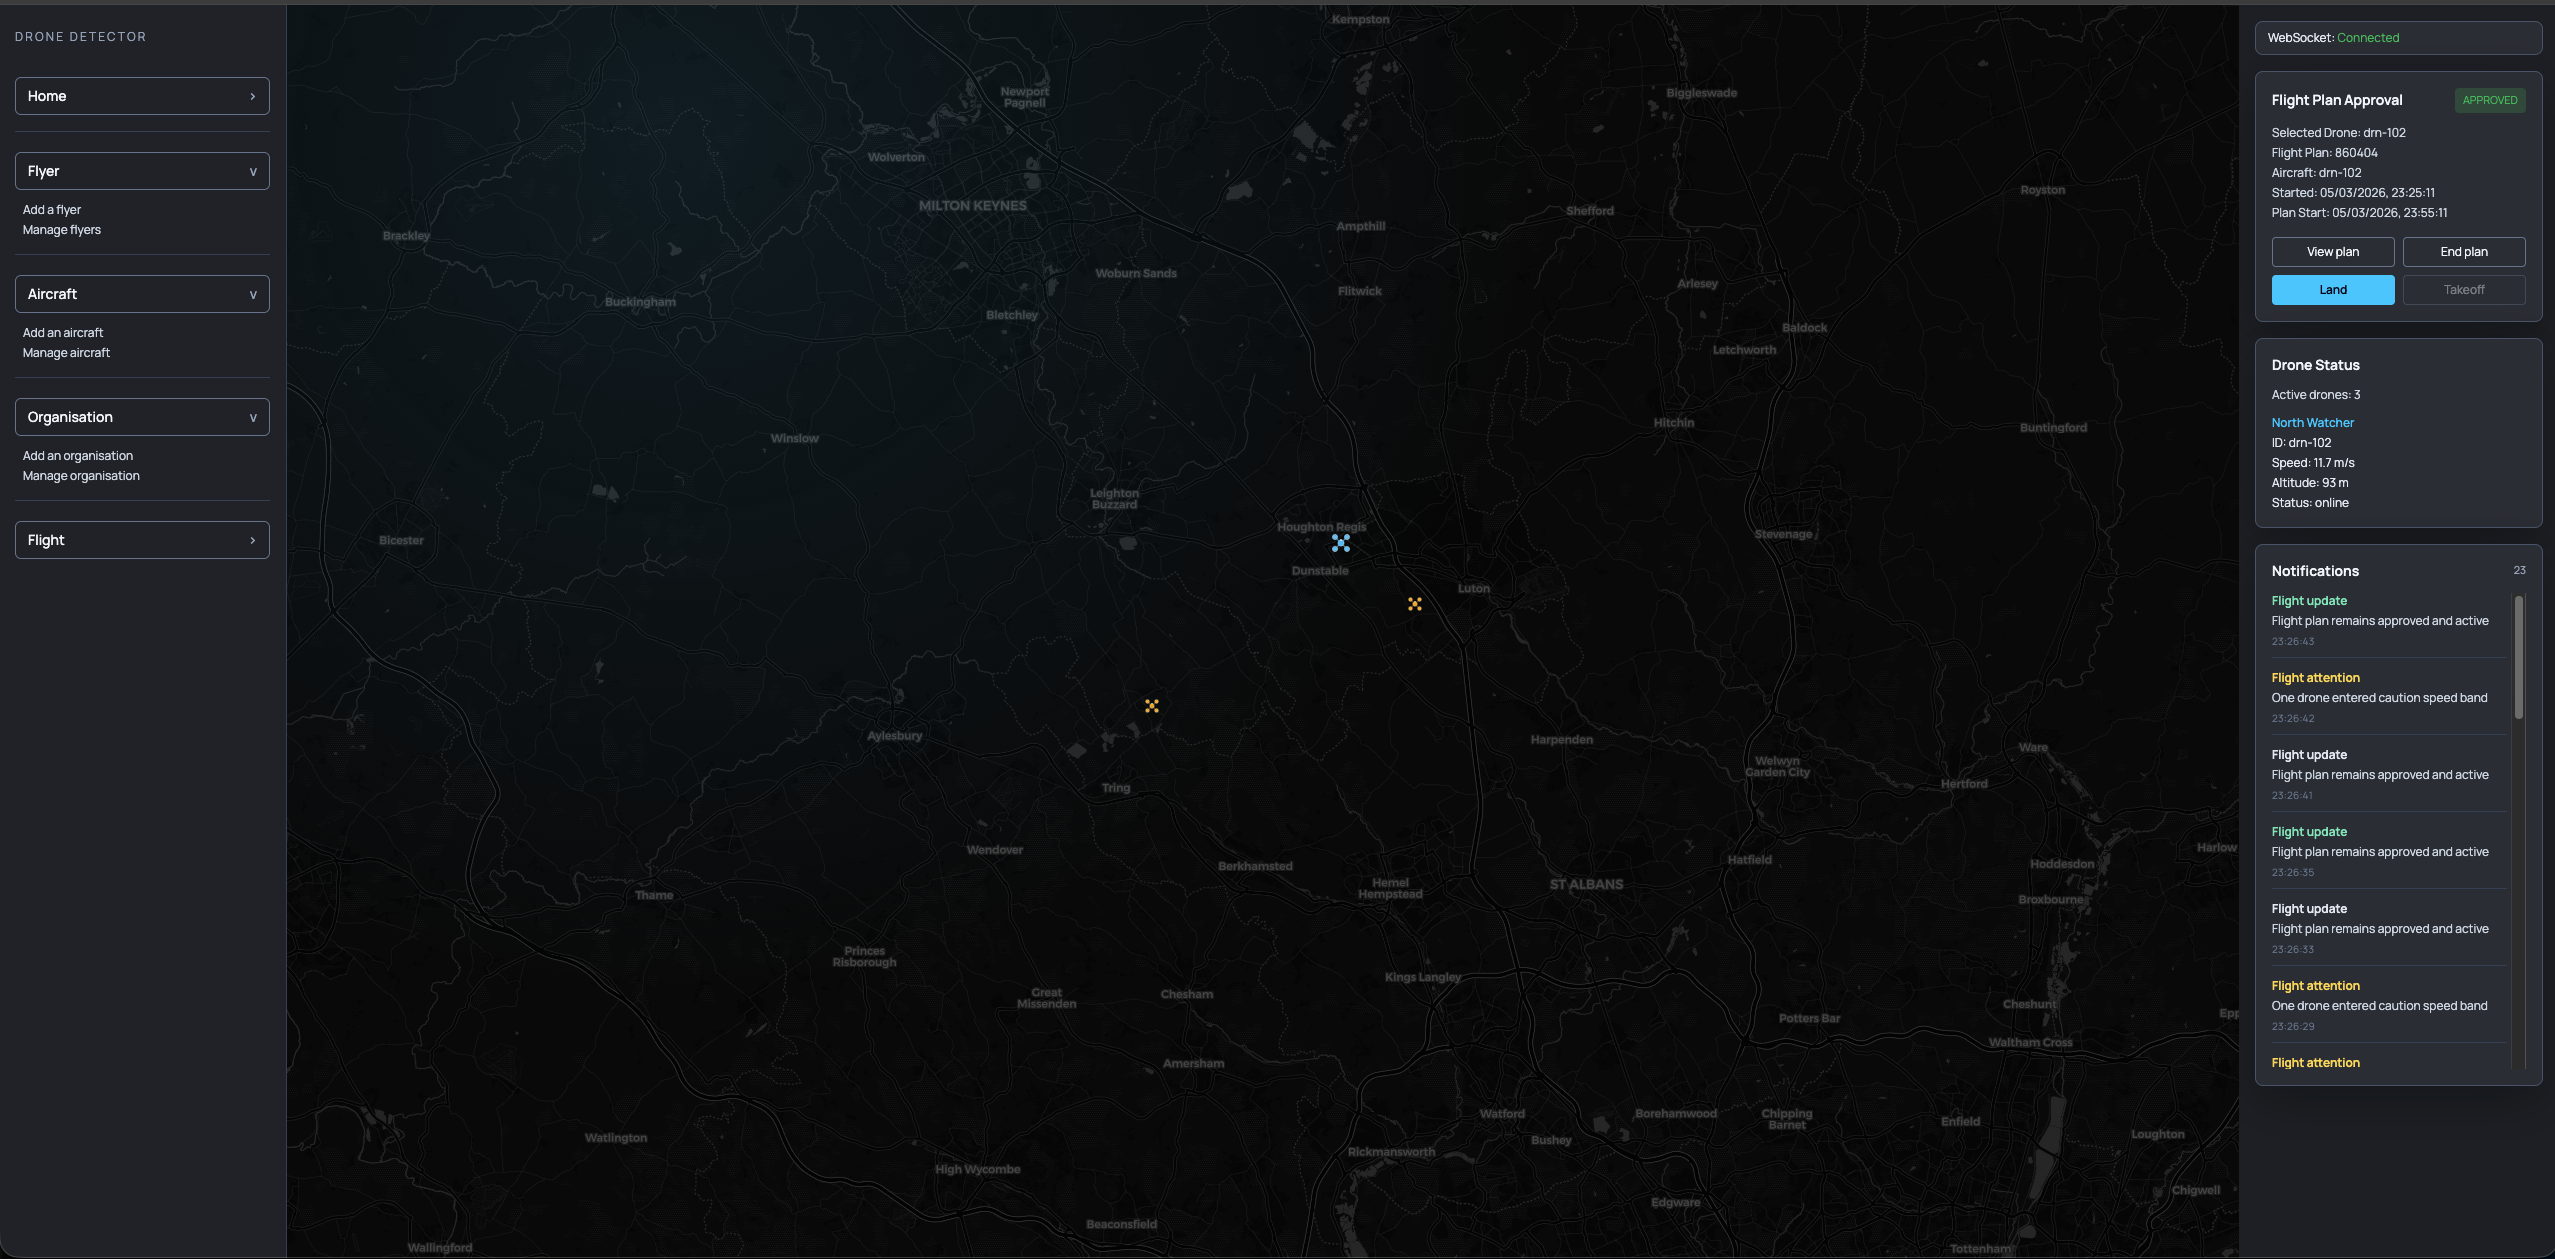
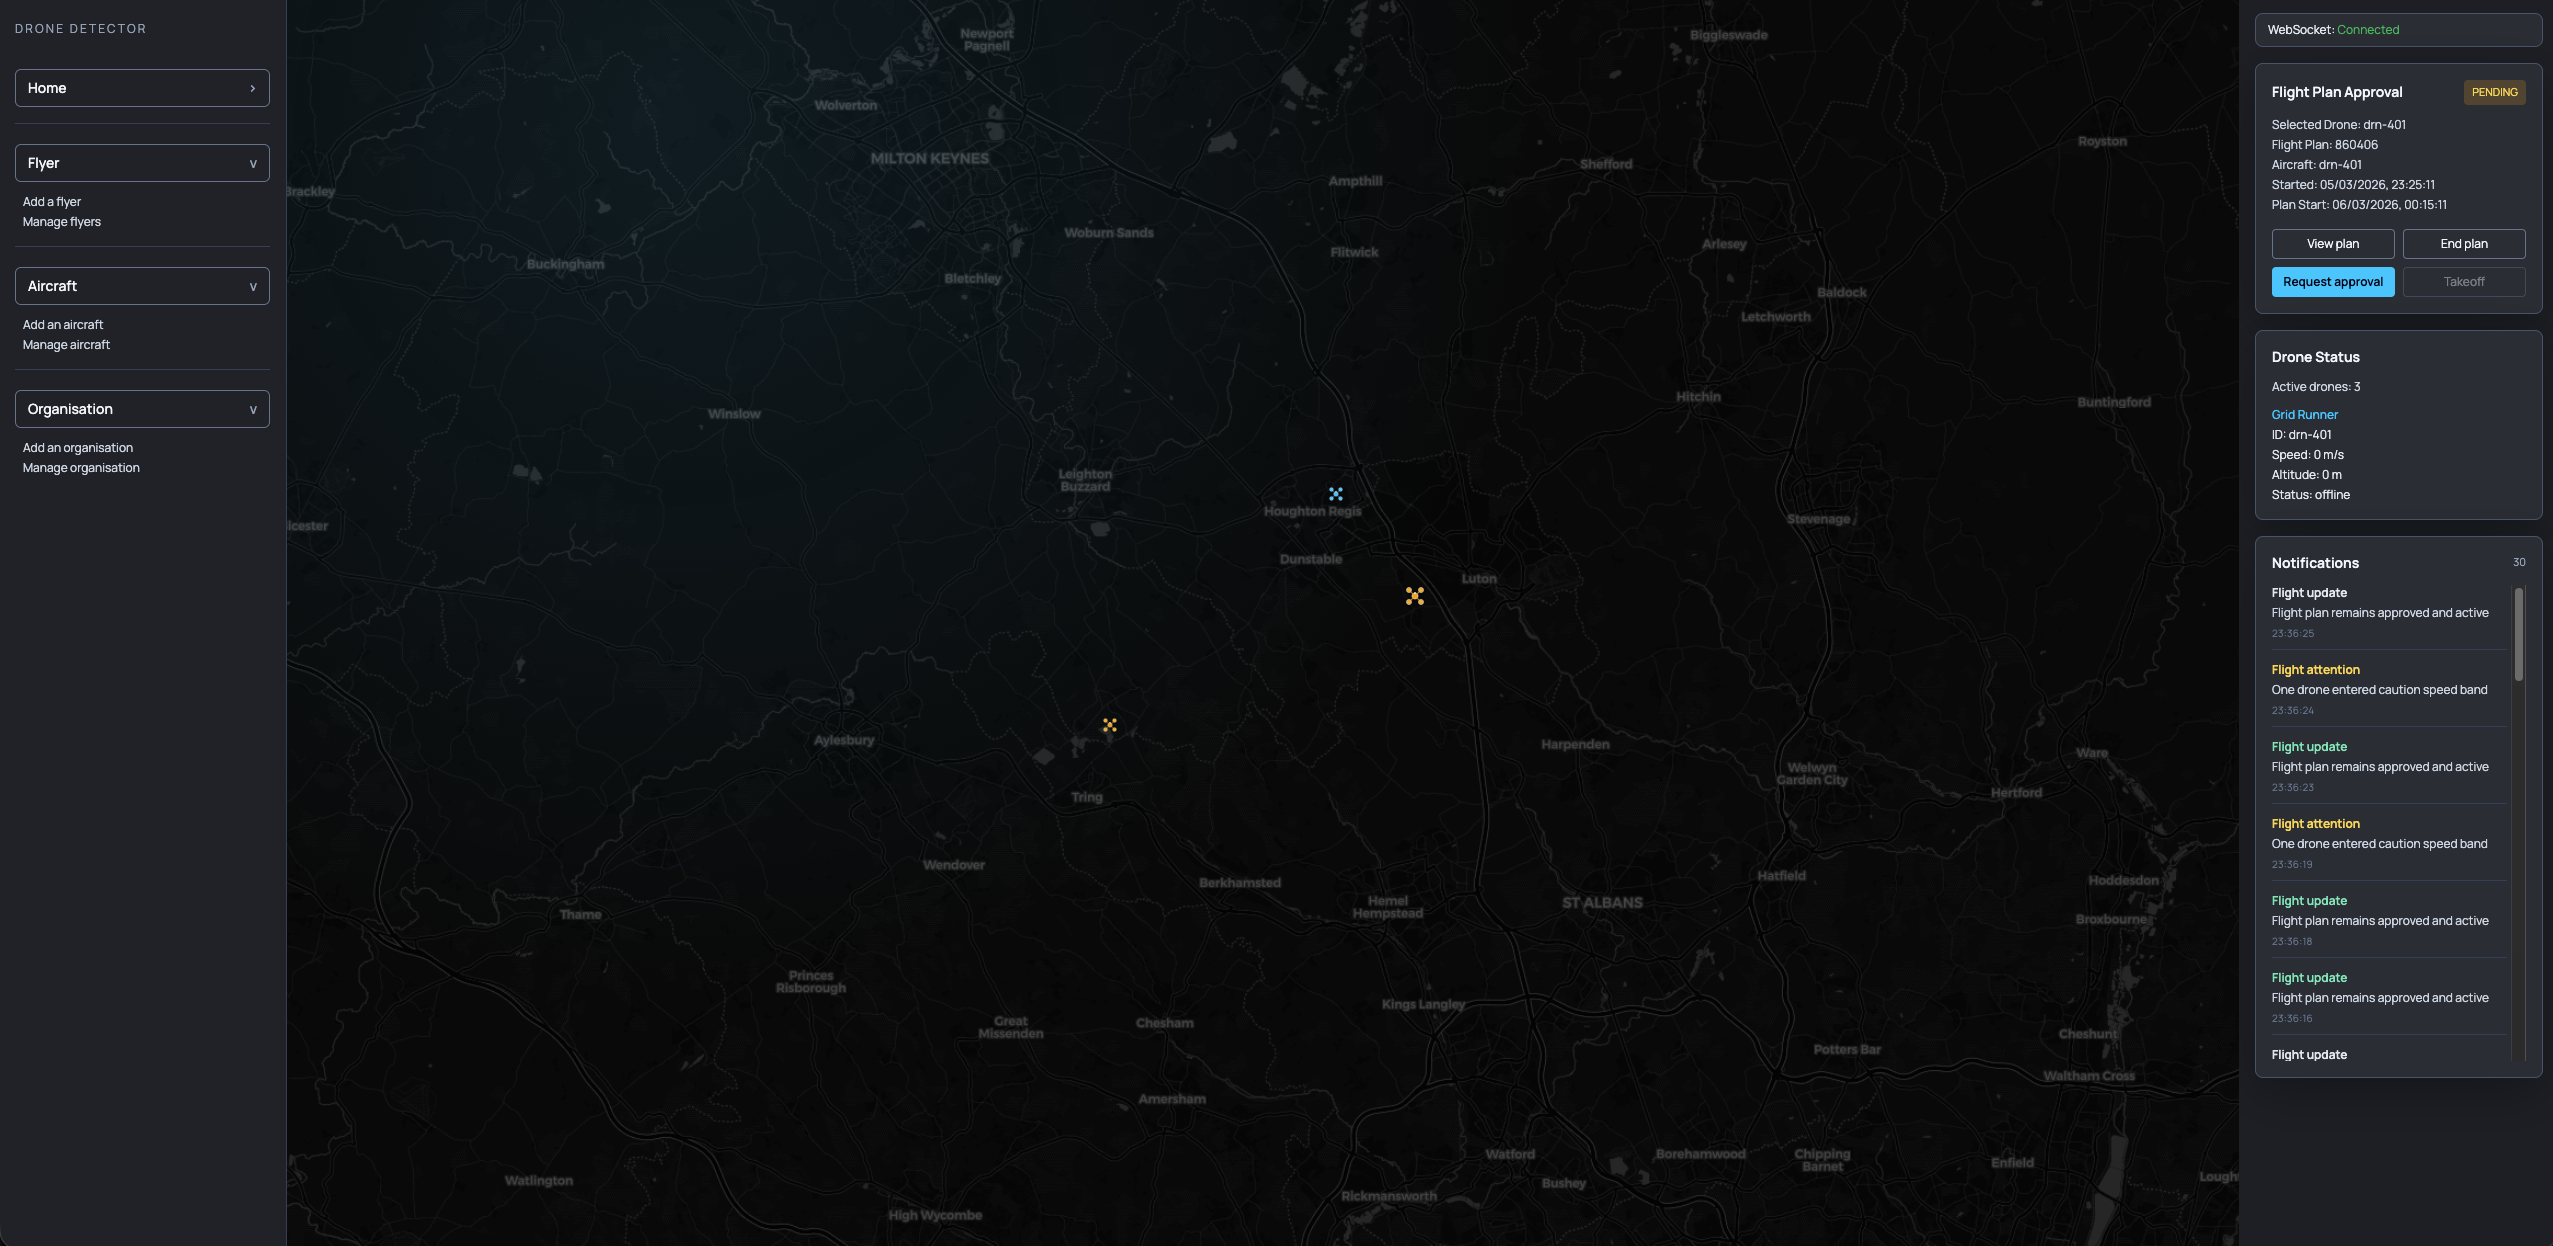
adjust sidebar

diff --git a/src/features/layout/LeftSidebar.tsx b/src/features/layout/LeftSidebar.tsx
@@ -3,7 +3,7 @@ const sections = [
   { title: "Flyer", items: ["Add a flyer", "Manage flyers"] },
   { title: "Aircraft", items: ["Add an aircraft", "Manage aircraft"] },
   { title: "Organisation", items: ["Add an organisation", "Manage organisation"] },
-  { title: "Flight", items: [] }
+  // { title: "Flight", items: [] }
 ];
 
 function LeftSidebar(): JSX.Element {

diff --git a/readme.md b/readme.md
@@ -4,7 +4,7 @@
 
 Drone Detector is a modern React 19 dashboard app that renders a live drone operations view using OpenLayers for mapping, Tailwind CSS for styling, and a WebSocket-style real-time data flow.
 
-**[Live Demo →](#)** | **[Deployment Guide](DEPLOYMENT.md)**
+**[Live Demo →](#)**
 
 ## Stack
 
@@ -52,10 +52,6 @@ npm run build
 ## Deployment
 
 This project is ready to deploy to Netlify, Vercel, or similar platforms.
-
-### Quick Deploy to Netlify
-
-[![Deploy to Netlify](https://www.netlify.com/img/deploy/button.svg)](https://app.netlify.com/start/deploy)
 
 For detailed deployment instructions, see [DEPLOYMENT.md](DEPLOYMENT.md).
 
@@ -130,4 +126,4 @@ Current implementation uses a local simulator stream for fast UI development.
 
 ## Screenshot
 
-![Drone Detector Dashboard](Screenshot.png)
+![Drone Detector Dashboard](screenshot.png)
